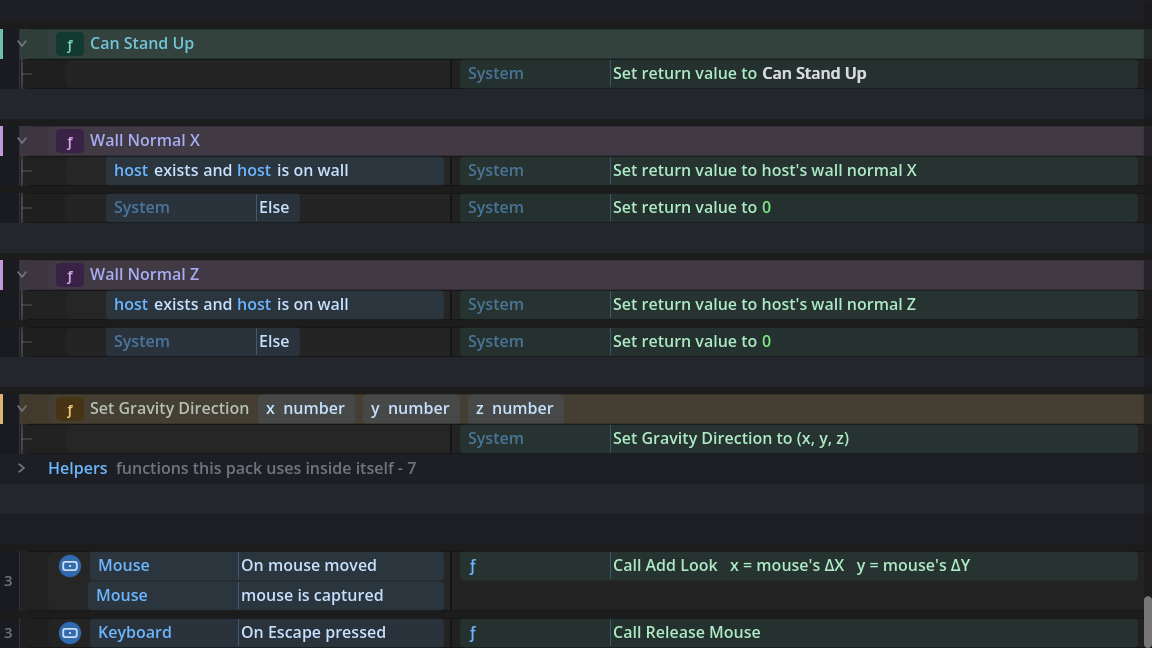
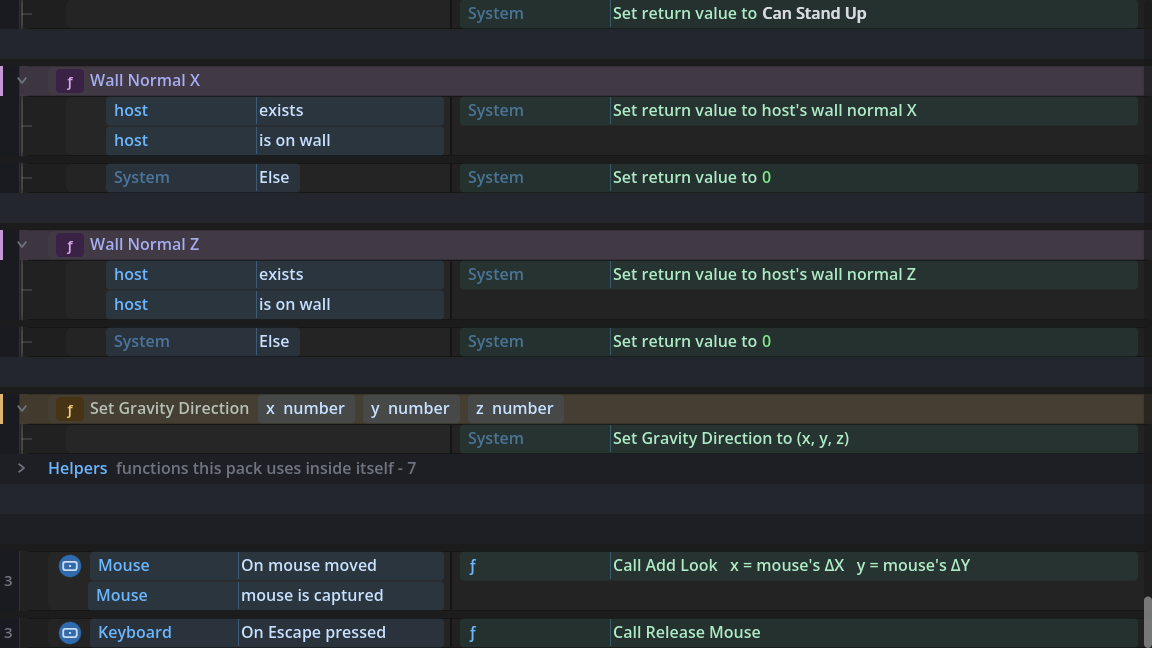
docs(reading): the opened-script preview, the pack shots and the changelog for the four shapes

Changed region(s): [[0.0, 0.0, 1.0, 0.4938], [0.125, 0.463, 0.3125, 0.4938]]

diff --git a/CHANGELOG.md b/CHANGELOG.md
@@ -2,6 +2,47 @@
 
 ## [Unreleased]
 
+### Added - stacked conditions, the awaits Construct has words for, connected lambdas, and one-line `if`s
+
+Four more shapes an ordinary `.gd` file writes, now read the way a Construct sheet writes them.
+
+- **`and` never appears inside a condition cell.** Construct has no word for "and": each top-level
+  conjunct is a condition LINE of the one event, stacked, and a top-level `or` is the OR block. A
+  lifted `if a and b:` already stacked; the readings the grammar INVENTS now agree with it, so a
+  ternary's branch test reads `host exists` / `host is on wall` on two lines instead of spelling the
+  word, and `"gold" if hp > 100 or seconds_left > 9 else …` reads as an OR block. A mixed
+  `a and (b or c)` stacks `a` and keeps the parenthesised group whole on its own line - a condition
+  line cannot hold a nested OR block, and inventing one would say something the source does not.
+- **An `await` says which tick or which signal it waits for.** `await get_tree().process_frame` reads
+  `⏳ Wait one tick`, `physics_frame` reads `⏳ Wait one physics tick`, and an await on a signal reads
+  Construct's own System action, `⏳ Wait for signal host On Tree Exited`. The timer wait keeps its
+  `⏳ Wait 0.5 seconds` sentence, and every other await still keeps its GDScript - a sentence must
+  never paper over a suspension point it cannot name. Both the lifted row and a hand-written line read
+  the same, and all three readings are translated.
+- **A lambda handed to `connect` reads as the trigger event it is.** `$Timer.timeout.connect(func():
+  seconds_left -= 1)` inside `_ready` - one of the commonest things real Godot code does, and
+  something Construct has no equivalent for - now draws as `Timer ▸ On Timeout` with the lambda's body
+  as its rows, through the same body grammar a declared handler's body gets: statements become
+  actions, a branch inside the lambda becomes a sub-event, and the lambda's parameters read as the
+  trigger's payload. Multi-line lambdas too. The connect line itself keeps a muted note,
+  `connects Timer On Timeout`, so the wiring is still written down where the file writes it. Display
+  only: the file keeps its one statement, the reading is anchored to it, and clicking or dragging
+  anywhere in it addresses that statement.
+- **A one-line `if` / `elif` / `else` lifts as the sub-event its indented twin does.** `if target ==
+  null: return`, `if hp <= 0: die()` / `else: play("hurt")`, `if i == 1: continue` - a beginner's most
+  common shapes - stayed verbatim code before, which meant a guard clause never became an event at
+  all. They now open as real rows, and the file re-emits byte for byte: the row remembers it was
+  written on one line and the compiler folds its single body line back onto the header. Nothing an
+  author builds in the editor changes shape.
+
+### Fixed - an `@export_group` written above its doc comment
+
+Godot's own convention writes `@export_group("Aim")` first and the `##` doc directly above the
+variable it documents; the importer only recognised the other order (doc, then group). In Godot's
+order the group line stayed a raw GDScript block and the settings folder never formed at all for a
+hand-written script. Both orders now lift, the variable remembers which one its file used, and saving
+reproduces that file byte for byte either way.
+
 ### Added - a ternary reads as a sub-event pair, and `return` reads Construct's own wording
 
 An opened pack still had one shape a Construct sheet never shows: a CONDITION inside an ACTION cell.
@@ -16,8 +57,8 @@ in the right-hand lane, where the reader expects a step.
   spells an else-if - an `Else` on the row's first condition line with that arm's own test stacked
   under it, so no two arms can read as though both could fire - and the last arm is a plain `Else`.
   A second independent ternary nests its own pair beneath the first. `ƒ Wall Normal X` now opens as
-  `host exists and host is on wall | Set return value to host's wall normal X` over
-  `Else | Set return value to 0`.
+  `host exists` / `host is on wall` (two condition lines - see below) beside
+  `Set return value to host's wall normal X`, over `Else | Set return value to 0`.
 - Display only, over the unchanged statement: the file keeps its one line (byte round-trip identical),
   hover shows the exact GDScript, and double-click edits that statement.
 - **On every sheet, editable ones included.** The pair is no longer a reading-view-only lens: an
